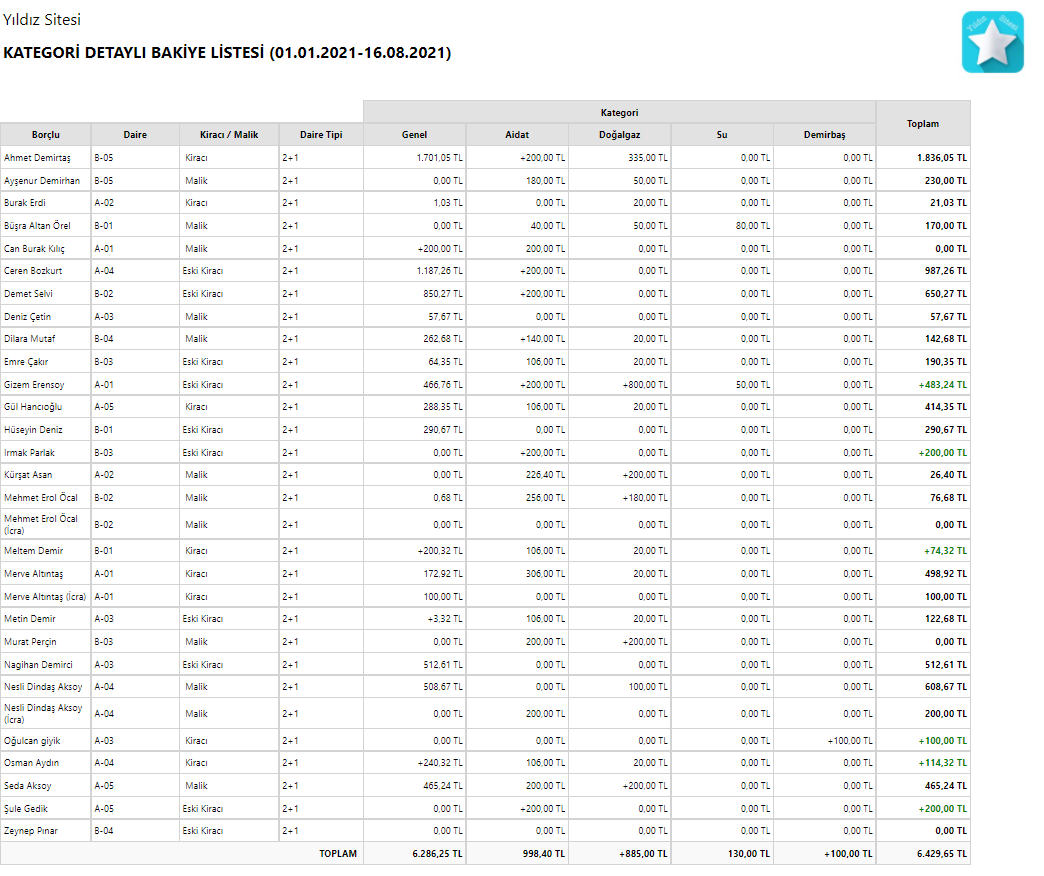
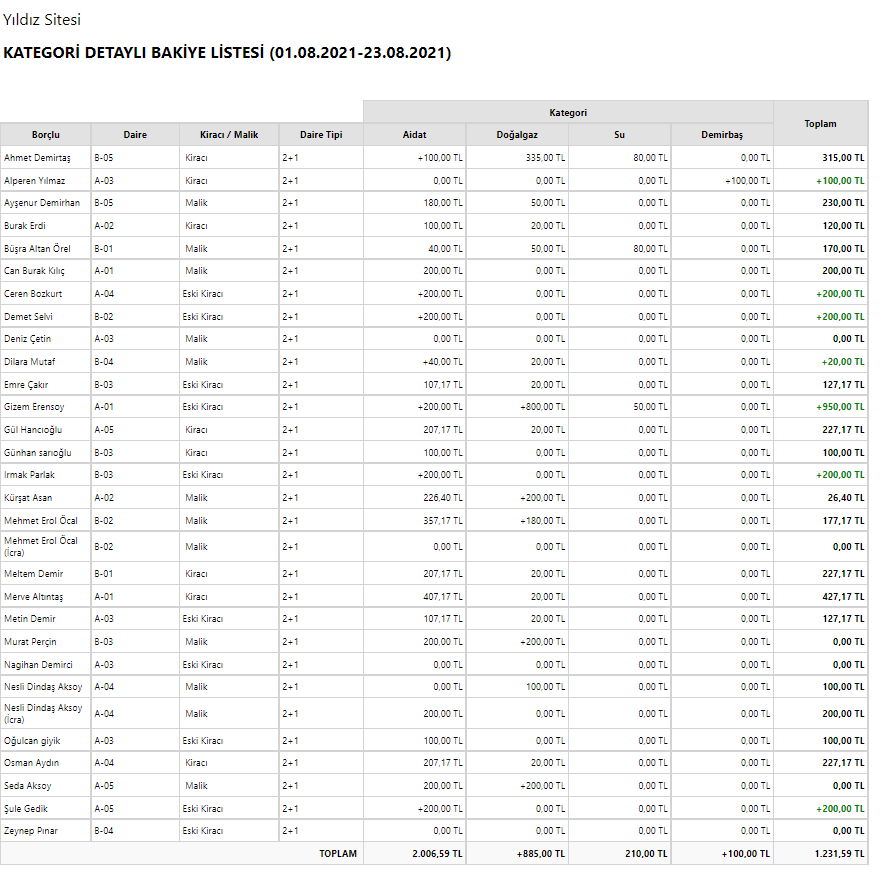
1

Changed region(s): [[0.0, 0.0, 1.0, 0.9863]]

diff --git a/articles/kategoridetayli.html b/articles/kategoridetayli.html
@@ -1,30 +1,31 @@
 <html>
+
 <head>
     <style>
         h1 {
             color: #26ACE8;
         }
-    
-        
 
-        h2{
+
+
+        h2 {
             color: #26ACE8;
         }
-    
+
         h4 {
             color: #26ACE8;
         }
-    
+
         h6 {
             color: #26ACE8;
         }
-    
+
         table {
             border-color: #26ACE8;
             border-radius: 10px;
             border-style: solid;
         }
-    
+
         th,
         td {
             border: 1px solid #26ACE8;
@@ -37,8 +38,10 @@
 
 <body>
     <div class="main" style="padding-left: 10%;padding-right: 10%;">
-        <div align="center"><h1>KATEGORİ DETAYLI BAKİYE LİSTESİ</h1></div>
-        
+        <div align="center">
+            <h1>KATEGORİ DETAYLI BAKİYE LİSTESİ</h1>
+        </div>
+
         <h4 align="center">
             Geçerli olan paketler; Standart &#10003; Prestij &#10003; Kurumsal &#10003;
         </h4>
@@ -46,13 +49,11 @@
         <h3>Verilen ilk ve son tarih arasında (ilk ve son tarih dahil olmak üzere);</h3>
         <ul>
             <li>İki tarih arasındaki borçlandırma tutarı</li>
-            <li>İki tarih arasındaki tahsilat tutarı</li>
-            <li>İki tarihten önceki borç veya alacak tutarı</li>
-            <li>Verilen son tarih itibariyle borç veya alacak toplamı görülmektedir.</li>
+            <li>Verilen son tarih itibariyle toplam borçlandırma tutarı görülmektedir.</li>
         </ul>
         <br>
         <img src="../images/kategoridetayli.png" width="100%" height="110%">
-        
+
         <h2>Dikkat edilmesi gerekenler;</h2>
 
         <ul>
@@ -66,4 +67,5 @@
         </ul>
     </div>
 </body>
+
 </html>

diff --git a/articles/donemselbakiye.html b/articles/donemselbakiye.html
@@ -36,7 +36,7 @@
 </head>
 
 <body>
-    <h1 align="center">DÖNEMSEL BAKİYE BAKİYE RAPORU</h1>
+    <h1 align="center">DÖNEMSEL BAKİYE RAPORU</h1>
 
     <h4 align="center">
         Geçerli olan paketler; Standart &#10003; Prestij &#10003; Kurumsal &#10003;
